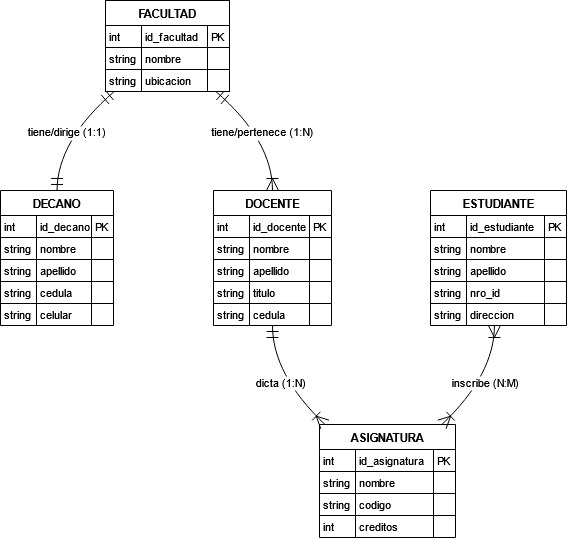
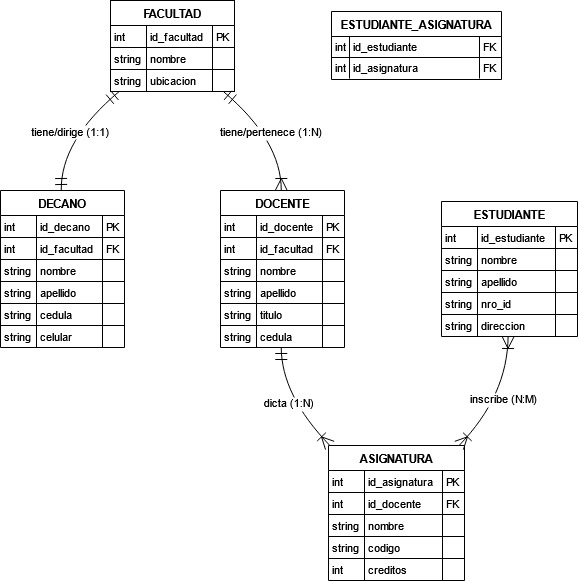
i've created Decano, Docente, Facultad models

diff --git a/src/main/java/com/example/miapp/demo/models/Docente.java b/src/main/java/com/example/miapp/demo/models/Docente.java
@@ -1,0 +1,78 @@
+package com.example.miapp.demo.models;
+
+import jakarta.persistence.*;
+
+@Entity
+@Table(name="docente")
+public class Docente {
+    @Id
+    @GeneratedValue(strategy = GenerationType.IDENTITY)
+    private Long id;
+
+    @Column(nullable = false, length = 100)
+    private String nombre;
+
+    @Column(nullable = false, length = 100)
+    private String apellido;
+
+    @Column(nullable = false, length = 100)
+    private String titulo;
+
+    @Column(nullable = false, length = 100)
+    private String cedula;
+
+    @OneToOne(cascade = CascadeType.ALL)
+    @JoinColumn(name="id_facultad", referencedColumnName = "id", unique = true)
+    private Facultad facultad;
+
+    public Long getId() {
+        return id;
+    }
+
+    public void setId(Long id) {
+        this.id = id;
+    }
+
+    public String getNombre() {
+        return nombre;
+    }
+
+    public void setNombre(String nombre) {
+        this.nombre = nombre;
+    }
+
+    public String getApellido() {
+        return apellido;
+    }
+
+    public void setApellido(String apellido) {
+        this.apellido = apellido;
+    }
+
+    public String getTitulo() {
+        return titulo;
+    }
+
+    public void setTitulo(String titulo) {
+        this.titulo = titulo;
+    }
+
+    public String getCedula() {
+        return cedula;
+    }
+
+    public void setCedula(String cedula) {
+        this.cedula = cedula;
+    }
+
+    public Facultad getFacultad() {
+        return facultad;
+    }
+
+    public void setFacultad(Facultad facultad) {
+        this.facultad = facultad;
+    }
+
+    
+    
+}

diff --git a/src/main/java/com/example/miapp/demo/models/Decano.java b/src/main/java/com/example/miapp/demo/models/Decano.java
@@ -1,0 +1,77 @@
+package com.example.miapp.demo.models;
+
+import jakarta.persistence.*;
+
+@Entity
+@Table(name="decano")
+public class Decano {
+
+    @Id
+    @GeneratedValue(strategy = GenerationType.IDENTITY)
+    private Long id;
+
+    @Column(nullable = false, length=100)
+    private String nombre;
+
+    @Column(nullable = false, length = 100)
+    private String apellido;
+
+    @Column(nullable = false, length = 100, unique = true)
+    private String cc;
+
+    @Column(nullable = false, length = 100, unique = true)
+    private String celular;
+
+    @OneToOne(cascade = CascadeType.ALL)
+    @JoinColumn(name="id_facultad", referencedColumnName = "id", unique = true)
+    private Facultad facultad;
+
+    public Long getId() {
+        return id;
+    }
+
+    public void setId(Long id) {
+        this.id = id;
+    }
+
+    public String getNombre() {
+        return nombre;
+    }
+
+    public void setNombre(String nombre) {
+        this.nombre = nombre;
+    }
+
+    public String getApellido() {
+        return apellido;
+    }
+
+    public void setApellido(String apellido) {
+        this.apellido = apellido;
+    }
+
+    public String getCc() {
+        return cc;
+    }
+
+    public void setCc(String cc) {
+        this.cc = cc;
+    }
+
+    public String getCelular() {
+        return celular;
+    }
+
+    public void setCelular(String celular) {
+        this.celular = celular;
+    }
+
+    public Facultad getFacultad() {
+        return facultad;
+    }
+
+    public void setFacultad(Facultad facultad) {
+        this.facultad = facultad;
+    }
+    
+}

diff --git a/src/main/java/com/example/miapp/demo/models/Facultad.java b/src/main/java/com/example/miapp/demo/models/Facultad.java
@@ -1,0 +1,32 @@
+package com.example.miapp.demo.models;
+
+import jakarta.persistence.*;
+
+
+@Entity
+@Table(name="facultad")
+public class Facultad {
+    @Id
+    @GeneratedValue(strategy = GenerationType.IDENTITY)
+    private Long Id;
+
+    @Column(nullable = false, length = 100)
+    private String nombre;
+
+    public Long getId() {
+        return Id;
+    }
+
+    public void setId(Long id) {
+        Id = id;
+    }
+
+    public String getNombre() {
+        return nombre;
+    }
+
+    public void setNombre(String nombre) {
+        this.nombre = nombre;
+    }
+    
+}

diff --git a/src/main/java/com/example/miapp/demo/DemoApplication.java b/src/main/java/com/example/miapp/demo/DemoApplication.java
@@ -2,7 +2,6 @@ package com.example.miapp.demo;
 
 import org.springframework.boot.SpringApplication;
 import org.springframework.boot.autoconfigure.SpringBootApplication;
-import org.springframework.boot.autoconfigure.SpringBootApplication;
 import org.springframework.boot.autoconfigure.domain.EntityScan;
 
 @SpringBootApplication

diff --git a/README.md b/README.md
@@ -1,3 +1,5 @@
+Esquema Base de Datos de Facultad
+
 ![Esquema Base de Datos de Facultad](assets/Esquema.jpg)
 
 
@@ -75,23 +77,6 @@ Implementación con JPA
 
 Este modelo se implementa utilizando Java Persistence API (JPA), lo que permite mapear las entidades a tablas en una base de datos relacional. Se recomienda utilizar Hibernate como proveedor de JPA y configurarlo con Spring Boot para facilitar la gestión de las entidades y sus relaciones.
 
-Ejemplo de una entidad en JPA:
-
-@Entity
-@Table(name = "facultad")
-public class Facultad {
-    @Id
-    @GeneratedValue(strategy = GenerationType.IDENTITY)
-    private Long id_facultad;
-
-    private String nombre;
-    private String ubicacion;
-    
-    @OneToMany(mappedBy = "facultad")
-    private List<Docente> docentes;
-
-    // Getters y Setters
-}
 
 Diagrama Entidad-Relación en Mermaid
 
@@ -104,6 +89,7 @@ erDiagram
     
     DECANO {
         int id_decano PK
+        int id_facultad FK
         string nombre
         string apellido
         string cedula
@@ -112,6 +98,7 @@ erDiagram
     
     DOCENTE {
         int id_docente PK
+        int id_facultad FK
         string nombre
         string apellido
         string titulo
@@ -120,6 +107,7 @@ erDiagram
     
     ASIGNATURA {
         int id_asignatura PK
+        int id_docente FK
         string nombre
         string codigo
         int creditos
@@ -133,10 +121,15 @@ erDiagram
         string direccion
     }
     
-    FACULTAD ||--|| DECANO : DIRIGIR
-    FACULTAD ||--|{ DOCENTE : PERTENECE
-    DOCENTE }|--|| ASIGNATURA : DICTAR
-    ESTUDIANTE }|--|| ASIGNATURA : INSCRIBIR
+    ESTUDIANTE_ASIGNATURA {
+        int id_estudiante FK
+        int id_asignatura FK
+    }
+    
+    FACULTAD ||--||DECANO : "tiene/dirige (1:1)"
+    FACULTAD ||--|{DOCENTE : "tiene/pertenece (1:N)"
+    DOCENTE ||--|{ASIGNATURA : "dicta (1:N)"
+    ESTUDIANTE }|--|{ASIGNATURA : "inscribe (N:M)"
 
 
 
